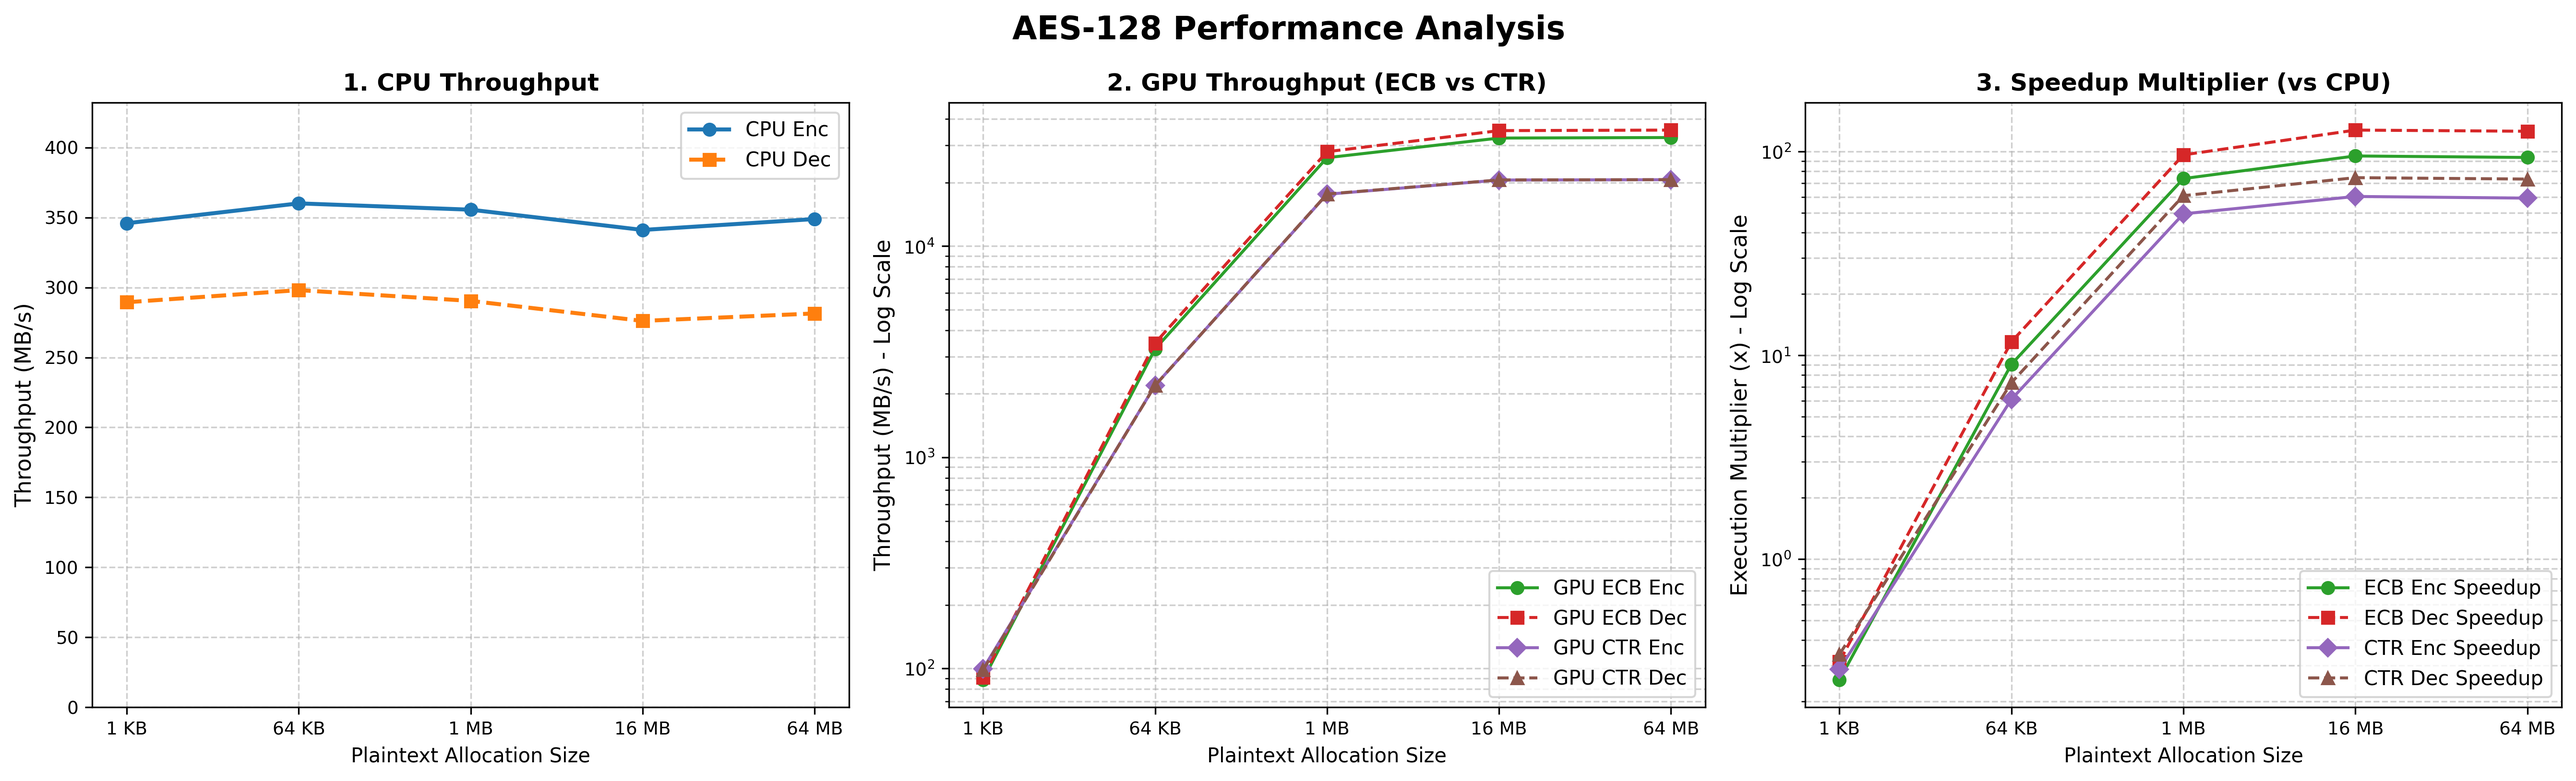
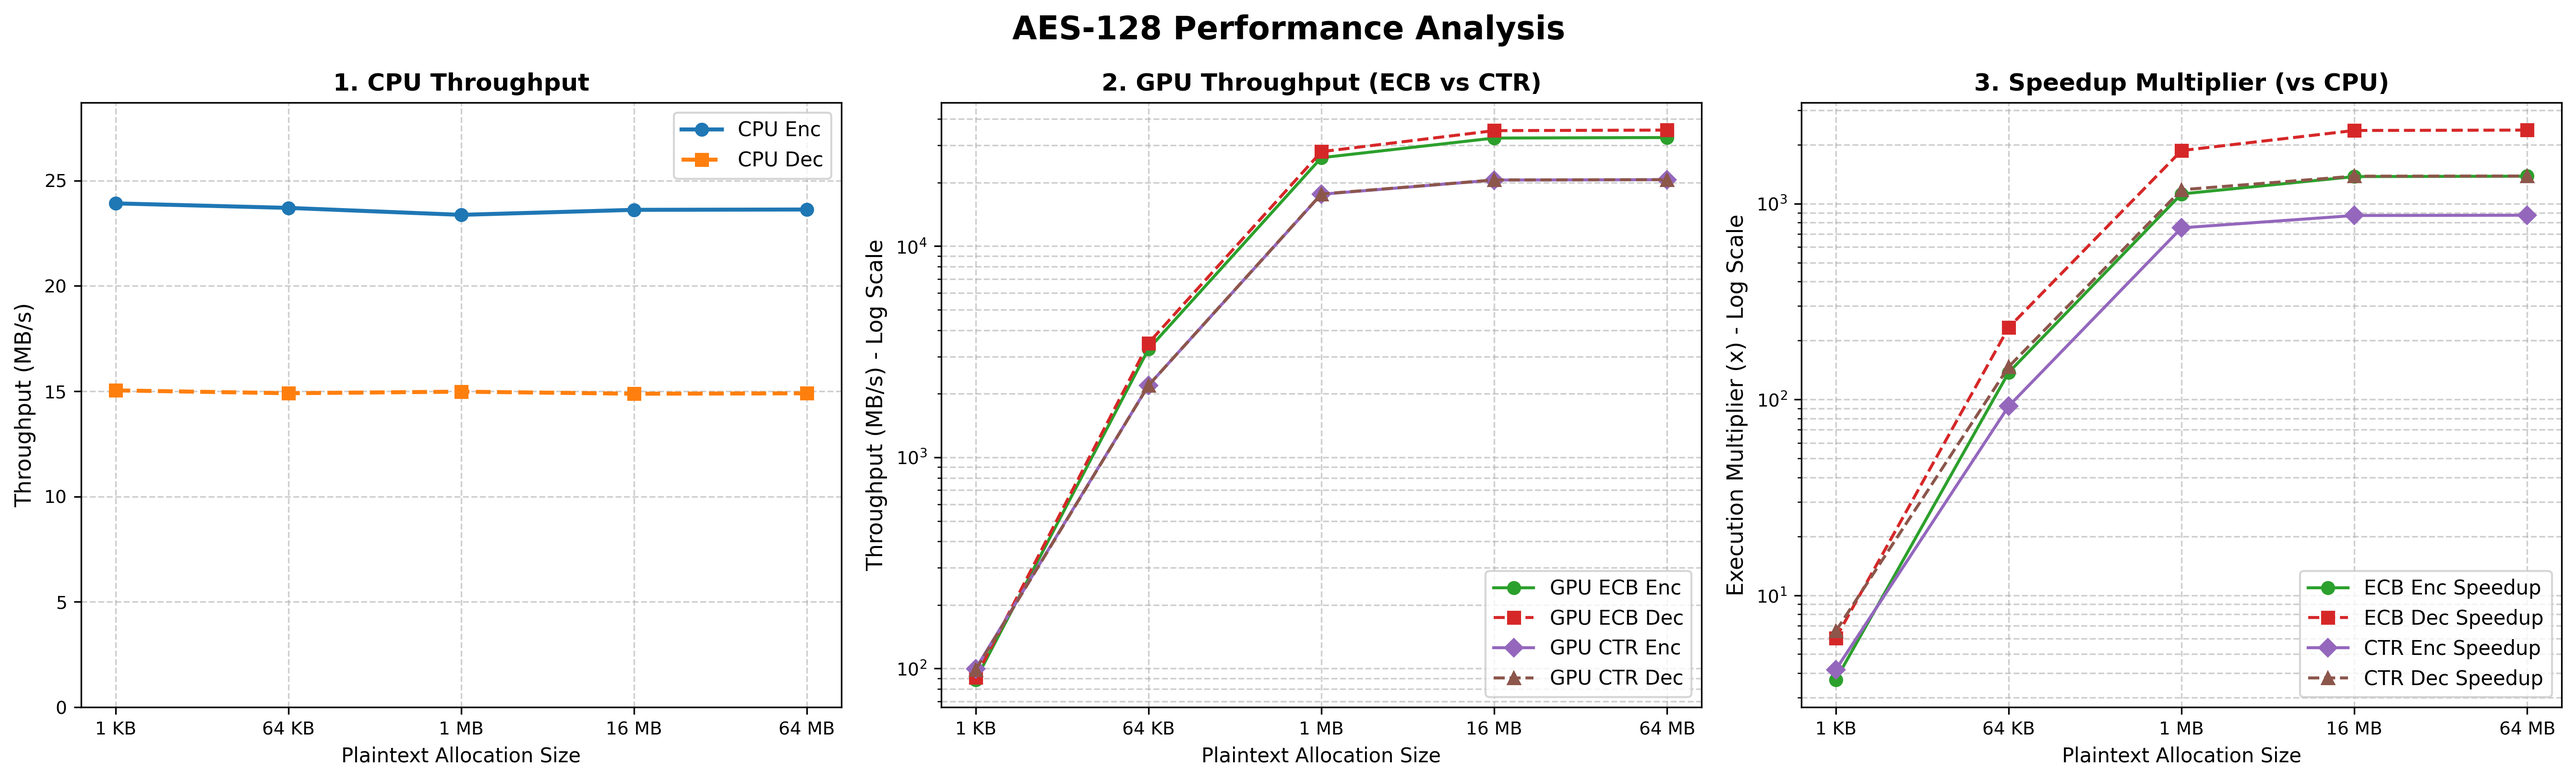
fixed aes results

diff --git a/run_outputs/plot_graphs.py b/run_outputs/plot_graphs.py
@@ -22,8 +22,8 @@ data = {
         'GPU_CTR_Dec': [599.5204, 36734.1088, 246375.94, 1065193.025, 479875.5225]
     },
     'AES-128': {
-        'CPU_Enc': [345.9152, 360.1152, 355.6021, 341.1154, 348.9152],
-        'CPU_Dec': [289.4412, 298.1154, 290.4115, 276.1152, 281.4412],
+        'CPU_Enc': [23.9206, 23.7059, 23.3759, 23.6137, 23.6295],
+        'CPU_Dec': [15.0428, 14.9077, 14.9817, 14.8847, 14.9041],
         'GPU_ECB_Enc': [88.5147, 3257.495, 26222.79, 32483.77, 32664.19],
         'GPU_ECB_Dec': [90.9959, 3476.324, 27997.26, 35223.52, 35432.29],
         'GPU_CTR_Enc': [99.7276, 2191.6119, 17605.8455, 20554.8324, 20630.2546],
